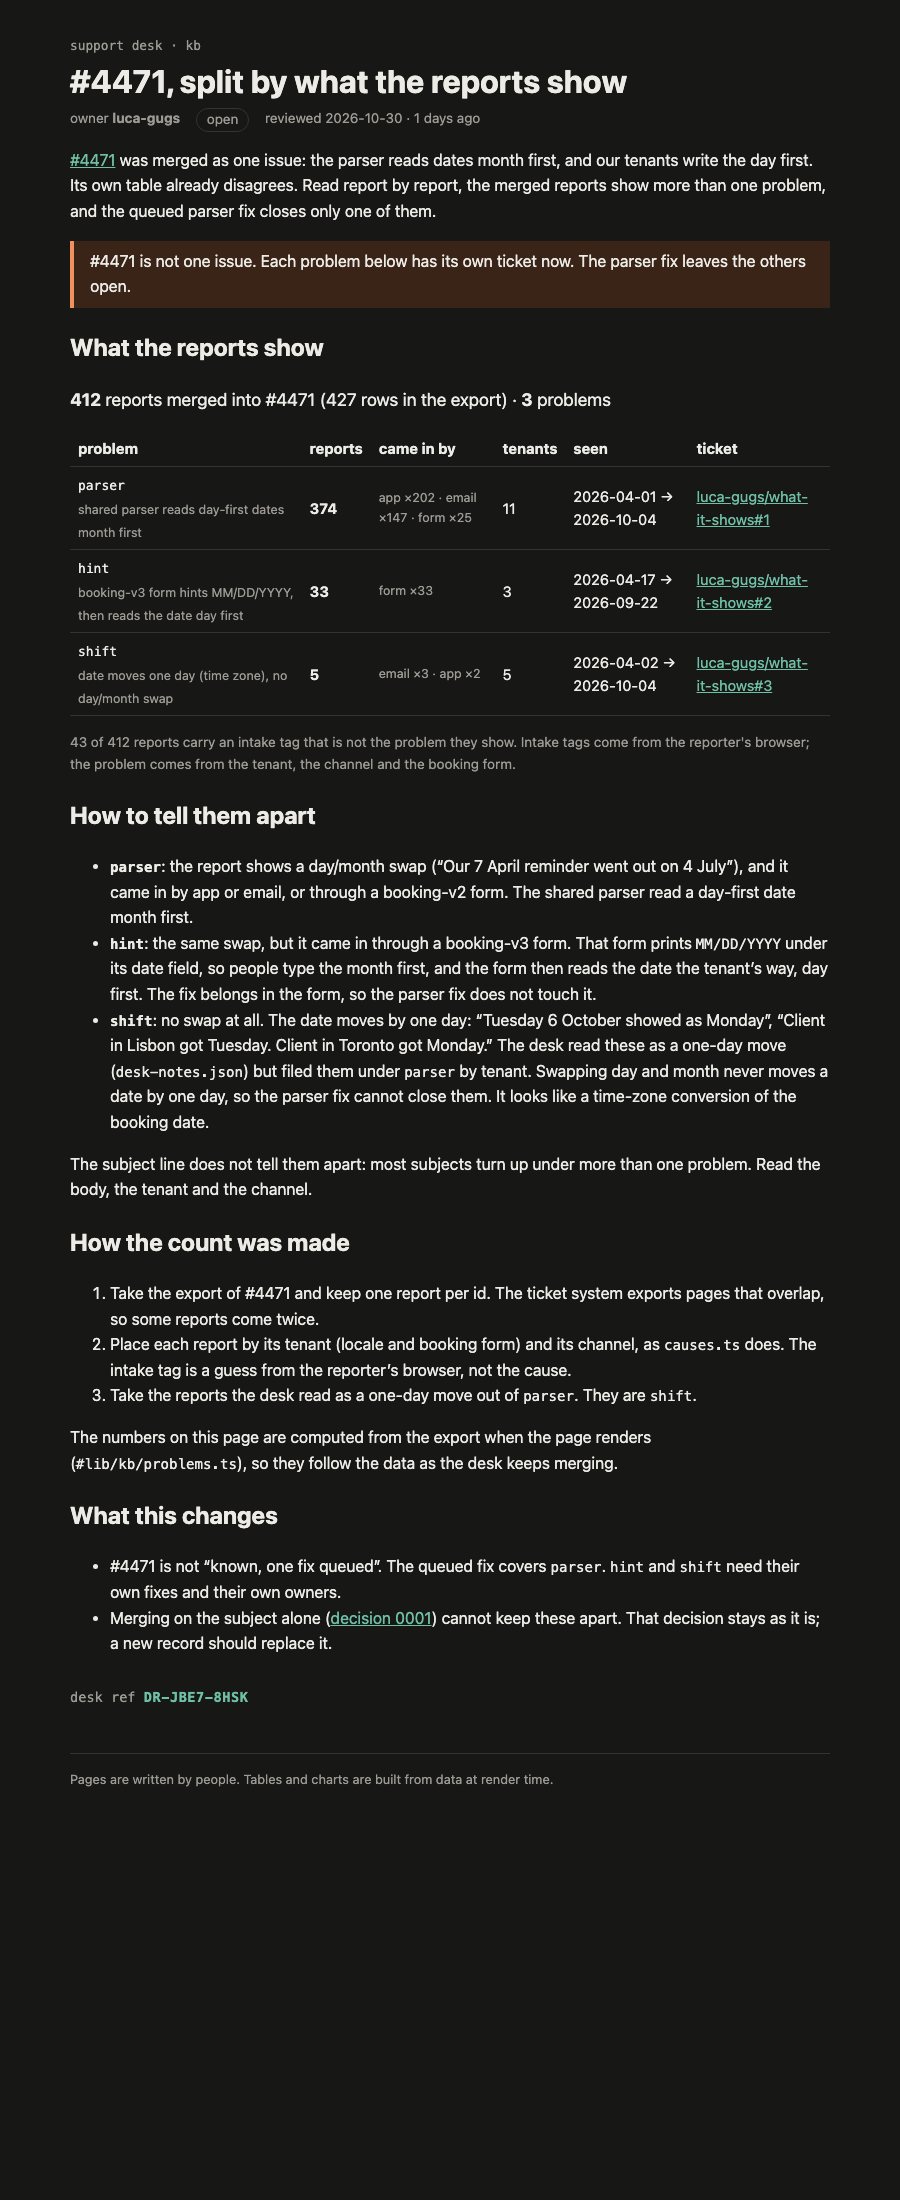
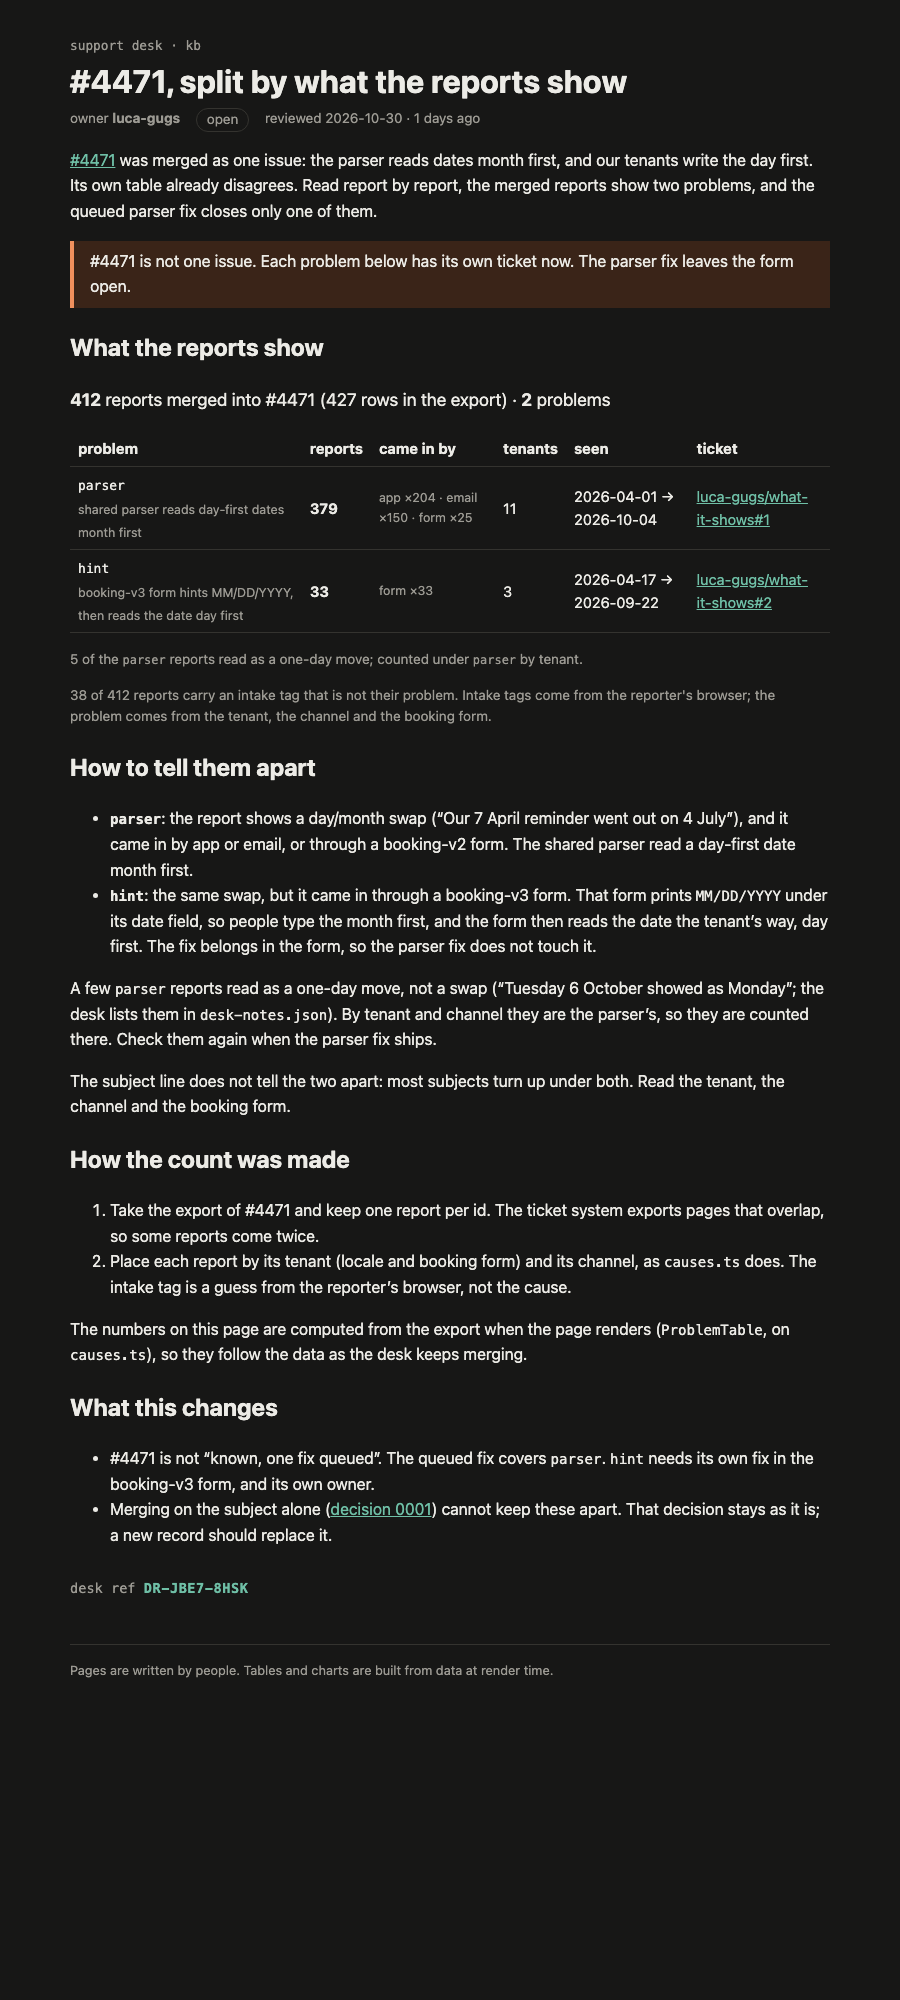
Count #4471 as two problems: parser and the booking-v3 hint
The one-day moves the desk noted belong to the parser problem by tenant,
so they are counted there and footnoted, not filed apart.

Changed region(s): [[0.0622, 0.0, 0.9333, 0.775], [0.0933, 0.806, 0.6222, 0.837], [0.7778, 0.186, 0.9022, 0.341]]

diff --git a/rendered/kb--incidents--4471-split.html b/rendered/kb--incidents--4471-split.html
@@ -3,14 +3,14 @@
   <head>
     <meta charset="utf-8" />
     <meta name="viewport" content="width=device-width, initial-scale=1" />
-    <link href="../../_app/immutable/entry/start.Ku1_9zTn.js" rel="modulepreload">
-		<link href="../../_app/immutable/chunks/UCQeh1lW.js" rel="modulepreload">
+    <link href="../../_app/immutable/entry/start.CMKn0K4u.js" rel="modulepreload">
+		<link href="../../_app/immutable/chunks/DS27942z.js" rel="modulepreload">
 		<link href="../../_app/immutable/chunks/W8JXJZ79.js" rel="modulepreload">
-		<link href="../../_app/immutable/entry/app.DZBaKgCd.js" rel="modulepreload">
+		<link href="../../_app/immutable/entry/app.DS69caIh.js" rel="modulepreload">
 		<link href="../../_app/immutable/chunks/xihTtKlq.js" rel="modulepreload">
 		<link href="../../_app/immutable/nodes/0.C46UDYLG.js" rel="modulepreload">
-		<link href="../../_app/immutable/nodes/5.Din2IdPg.js" rel="modulepreload">
-		<link href="../../_app/immutable/chunks/BRaOGXPD.js" rel="modulepreload">
+		<link href="../../_app/immutable/nodes/5.B6b6-bzB.js" rel="modulepreload">
+		<link href="../../_app/immutable/chunks/CFPk5S7-.js" rel="modulepreload">
 		<link href="../../_app/immutable/chunks/DooIRhXB.js" rel="modulepreload">
 		<link href="../../_app/immutable/chunks/CVBzP17p.js" rel="modulepreload">
 		<link href="../../_app/immutable/chunks/CrgYNgkp.js" rel="modulepreload">
@@ -26,20 +26,17 @@ aside.svelte-17bri61{border-left:4px solid var(--accent);background:var(--note-b
   <body data-sveltekit-preload-data="hover">
     <div style="display: contents"><!--[--><!--[0--><!--[--><!--[--><div class="kb svelte-e2jw2j"><header><a class="crumb svelte-e2jw2j" href="/kb">support desk · kb</a> <h1 class="svelte-e2jw2j">#4471, split by what the reports show</h1> <p class="meta svelte-e2jw2j"><span>owner <b>luca-gugs</b></span> <span class="status open svelte-e2jw2j">open</span> <span class="svelte-e2jw2j">reviewed 2026-10-30 · 1 days ago</span></p></header> <!--[-1--><!--]--> <main><p><a href="/kb/incidents/4471">#4471</a> was merged as one issue: the parser reads dates month first, and our
 tenants write the day first. Its own table already disagrees. Read report by report, the merged
-reports show more than one problem, and the queued parser fix closes only one of them.</p> <aside class="warn svelte-17bri61"><!---->#4471 is not one issue. Each problem below has its own ticket now. The parser fix leaves the others open.<!----></aside><!----> <h2>What the reports show</h2> <p class="sum svelte-1op6c6"><strong>412</strong> reports merged into #4471 (427 rows in the export) · <strong>3</strong> problems</p> <table><thead><tr><th>problem</th><th>reports</th><th>came in by</th><th>tenants</th><th>seen</th><th>ticket</th></tr></thead><tbody><!--[--><tr class="svelte-1op6c6"><td class="svelte-1op6c6"><code>parser</code><br/><span class="what svelte-1op6c6">shared parser reads day-first dates month first</span></td><td class="svelte-1op6c6"><strong>374</strong></td><td class="tags svelte-1op6c6">app ×202 · email ×147 · form ×25</td><td title="alder.physio, copper.studio, harbour.dental, kettle.books, lantern.row, long.table, morrow.tax, nine.lanterns, pale.harbour, ridge.clinic, stone.and.sons" class="svelte-1op6c6">11</td><td class="svelte-1op6c6">2026-04-01 → 2026-10-04</td><td class="svelte-1op6c6"><!--[0--><a href="https://github.com/luca-gugs/what-it-shows/issues/1">luca-gugs/what-it-shows#1</a><!--]--></td></tr><tr class="svelte-1op6c6"><td class="svelte-1op6c6"><code>hint</code><br/><span class="what svelte-1op6c6">booking-v3 form hints MM/DD/YYYY, then reads the date day first</span></td><td class="svelte-1op6c6"><strong>33</strong></td><td class="tags svelte-1op6c6">form ×33</td><td title="alder.physio, copper.studio, pale.harbour" class="svelte-1op6c6">3</td><td class="svelte-1op6c6">2026-04-17 → 2026-09-22</td><td class="svelte-1op6c6"><!--[0--><a href="https://github.com/luca-gugs/what-it-shows/issues/2">luca-gugs/what-it-shows#2</a><!--]--></td></tr><tr class="svelte-1op6c6"><td class="svelte-1op6c6"><code>shift</code><br/><span class="what svelte-1op6c6">date moves one day (time zone), no day/month swap</span></td><td class="svelte-1op6c6"><strong>5</strong></td><td class="tags svelte-1op6c6">email ×3 · app ×2</td><td title="alder.physio, kettle.books, lantern.row, nine.lanterns, pale.harbour" class="svelte-1op6c6">5</td><td class="svelte-1op6c6">2026-04-02 → 2026-10-04</td><td class="svelte-1op6c6"><!--[0--><a href="https://github.com/luca-gugs/what-it-shows/issues/3">luca-gugs/what-it-shows#3</a><!--]--></td></tr><!--]--></tbody></table> <p class="note svelte-1op6c6">43 of 412 reports carry an intake tag that is not the problem they show. Intake tags
-  come from the reporter's browser; the problem comes from the tenant, the channel and the booking form.</p><!----> <h2>How to tell them apart</h2> <ul><li><strong><code>parser</code></strong>: the report shows a day/month swap (“Our 7 April reminder went out on 4 July”), and
+reports show two problems, and the queued parser fix closes only one of them.</p> <aside class="warn svelte-17bri61"><!---->#4471 is not one issue. Each problem below has its own ticket now. The parser fix leaves the form open.<!----></aside><!----> <h2>What the reports show</h2> <p class="sum svelte-1op6c6"><strong>412</strong> reports merged into #4471 (427 rows in the export) · <strong>2</strong> problems</p> <table><thead><tr><th>problem</th><th>reports</th><th>came in by</th><th>tenants</th><th>seen</th><th>ticket</th></tr></thead><tbody><!--[--><tr class="svelte-1op6c6"><td class="svelte-1op6c6"><code>parser</code><br/><span class="what svelte-1op6c6">shared parser reads day-first dates month first</span></td><td class="svelte-1op6c6"><strong>379</strong></td><td class="tags svelte-1op6c6">app ×204 · email ×150 · form ×25</td><td class="svelte-1op6c6">11</td><td class="svelte-1op6c6">2026-04-01 → 2026-10-04</td><td class="svelte-1op6c6"><!--[0--><a href="https://github.com/luca-gugs/what-it-shows/issues/1">luca-gugs/what-it-shows#1</a><!--]--></td></tr><tr class="svelte-1op6c6"><td class="svelte-1op6c6"><code>hint</code><br/><span class="what svelte-1op6c6">booking-v3 form hints MM/DD/YYYY, then reads the date day first</span></td><td class="svelte-1op6c6"><strong>33</strong></td><td class="tags svelte-1op6c6">form ×33</td><td class="svelte-1op6c6">3</td><td class="svelte-1op6c6">2026-04-17 → 2026-09-22</td><td class="svelte-1op6c6"><!--[0--><a href="https://github.com/luca-gugs/what-it-shows/issues/2">luca-gugs/what-it-shows#2</a><!--]--></td></tr><!--]--></tbody></table> <!--[--><!--[0--><p class="note svelte-1op6c6">5 of the <code>parser</code> reports read as a one-day move; counted under <code>parser</code> by tenant.</p><!--]--><!--[-1--><!--]--><!--]--> <p class="note svelte-1op6c6">38 of 412 reports carry an intake tag that is not their problem. Intake tags come
+  from the reporter's browser; the problem comes from the tenant, the channel and the booking form.</p><!----> <h2>How to tell them apart</h2> <ul><li><strong><code>parser</code></strong>: the report shows a day/month swap (“Our 7 April reminder went out on 4 July”), and
 it came in by app or email, or through a booking-v2 form. The shared parser read a day-first date
 month first.</li> <li><strong><code>hint</code></strong>: the same swap, but it came in through a booking-v3 form. That form prints <code>MM/DD/YYYY</code> under its date field, so people type the month first, and the form then reads the
-date the tenant’s way, day first. The fix belongs in the form, so the parser fix does not touch it.</li> <li><strong><code>shift</code></strong>: no swap at all. The date moves by one day: “Tuesday 6 October showed as Monday”,
-“Client in Lisbon got Tuesday. Client in Toronto got Monday.” The desk read these as a one-day move
-(<code>desk-notes.json</code>) but filed them under <code>parser</code> by tenant. Swapping day and month never moves a
-date by one day, so the parser fix cannot close them. It looks like a time-zone conversion of the
-booking date.</li></ul> <p>The subject line does not tell them apart: most subjects turn up under more than one problem. Read
-the body, the tenant and the channel.</p> <h2>How the count was made</h2> <ol><li>Take the export of #4471 and keep one report per id. The ticket system exports pages that
+date the tenant’s way, day first. The fix belongs in the form, so the parser fix does not touch it.</li></ul> <p>A few <code>parser</code> reports read as a one-day move, not a swap (“Tuesday 6 October showed as Monday”;
+the desk lists them in <code>desk-notes.json</code>). By tenant and channel they are the parser’s, so they are
+counted there. Check them again when the parser fix ships.</p> <p>The subject line does not tell the two apart: most subjects turn up under both. Read the tenant, the
+channel and the booking form.</p> <h2>How the count was made</h2> <ol><li>Take the export of #4471 and keep one report per id. The ticket system exports pages that
 overlap, so some reports come twice.</li> <li>Place each report by its tenant (locale and booking form) and its channel, as <code>causes.ts</code> does.
-The intake tag is a guess from the reporter’s browser, not the cause.</li> <li>Take the reports the desk read as a one-day move out of <code>parser</code>. They are <code>shift</code>.</li></ol> <p>The numbers on this page are computed from the export when the page renders
-(<code>#lib/kb/problems.ts</code>), so they follow the data as the desk keeps merging.</p> <h2>What this changes</h2> <ul><li>#4471 is not “known, one fix queued”. The queued fix covers <code>parser</code>. <code>hint</code> and <code>shift</code> need
-their own fixes and their own owners.</li> <li>Merging on the subject alone (<a href="/kb/decisions/0001-dedupe-by-subject">decision 0001</a>) cannot keep
+The intake tag is a guess from the reporter’s browser, not the cause.</li></ol> <p>The numbers on this page are computed from the export when the page renders (<code>ProblemTable</code>, on <code>causes.ts</code>), so they follow the data as the desk keeps merging.</p> <h2>What this changes</h2> <ul><li>#4471 is not “known, one fix queued”. The queued fix covers <code>parser</code>. <code>hint</code> needs its own fix in
+the booking-v3 form, and its own owner.</li> <li>Merging on the subject alone (<a href="/kb/decisions/0001-dedupe-by-subject">decision 0001</a>) cannot keep
 these apart. That decision stays as it is; a new record should replace it.</li></ul> <!--[0--><p class="stamp svelte-1280m42">desk ref <b class="svelte-1280m42">DR-JBE7-8HSK</b></p><!--]--><!----><!----></main> <footer class="svelte-e2jw2j">Pages are written by people. Tables and charts are built from data at render time.</footer></div><!--]--><!----><!--]--><!--]--> <!--[-1--><!--]--><!--]-->
 		</div>
   </body>

diff --git a/src/lib/kb/ProblemTable.svelte b/src/lib/kb/ProblemTable.svelte
@@ -1,22 +1,23 @@
 <script lang="ts">
   import reports from '#lib/data/reports-4471.json';
   import notes from '#lib/data/desk-notes.json';
-  import { uniqueById, type Report } from '#lib/kb/causes';
+  import { groupByCause, readAs, uniqueById, type Cause, type Report } from '#lib/kb/causes';
   import { tenantOf } from '#lib/kb/locales';
-  import { groupByProblem, mistagged, PROBLEM_LABEL, type Problem } from '#lib/kb/problems';
+  import { mistagged, PROBLEM_LABEL } from '#lib/kb/problems';
 
   // `tickets`: where each problem is filed now, problem → ticket URL.
-  let { ticket, tickets = {} }: { ticket: number; tickets?: Partial<Record<Problem, string>> } = $props();
+  let { ticket, tickets = {} }: { ticket: number; tickets?: Partial<Record<Cause, string>> } = $props();
 
   const rows = $derived((reports as Report[]).filter((r) => r.mergedInto === ticket));
   const merged = $derived(uniqueById(rows));
-  const groups = $derived(groupByProblem(merged, tenantOf, notes.oneDayMove));
+  const groups = $derived(groupByCause(merged, tenantOf));
   const wrongTag = $derived(mistagged(groups));
   const count = (n: Record<string, number>) =>
     Object.entries(n)
       .sort((a, b) => b[1] - a[1])
       .map(([k, v]) => `${k} ×${v}`)
       .join(' · ');
+  const channels = (rs: Report[]) => count(rs.reduce<Record<string, number>>((n, r) => ({ ...n, [r.channel]: (n[r.channel] ?? 0) + 1 }), {}));
   const ticketOf = (p: string) => (tickets as Record<string, string | undefined>)[p];
   const label = (url: string) => url.replace(/^https:\/\/github\.com\/([^/]+\/[^/]+)\/issues\/(\d+)$/, '$1#$2');
 </script>
@@ -32,13 +33,13 @@
     <tr><th>problem</th><th>reports</th><th>came in by</th><th>tenants</th><th>seen</th><th>ticket</th></tr>
   </thead>
   <tbody>
-    {#each groups as g (g.problem)}
-      {@const url = ticketOf(g.problem)}
+    {#each groups as g (g.cause)}
+      {@const url = ticketOf(g.cause)}
       <tr class:open={!url}>
-        <td><code>{g.problem}</code><br /><span class="what">{PROBLEM_LABEL[g.problem]}</span></td>
+        <td><code>{g.cause}</code><br /><span class="what">{PROBLEM_LABEL[g.cause]}</span></td>
         <td><strong>{g.reports.length}</strong></td>
-        <td class="tags">{count(g.channels)}</td>
-        <td title={g.tenants.join(', ')}>{g.tenants.length}</td>
+        <td class="tags">{channels(g.reports)}</td>
+        <td>{g.tenants}</td>
         <td>{g.firstSeen} → {g.lastSeen}</td>
         <td>{#if url}<a href={url}>{label(url)}</a>{:else}no ticket yet{/if}</td>
       </tr>
@@ -46,9 +47,16 @@
   </tbody>
 </table>
 
+{#each groups as g (g.cause)}
+  {@const moved = readAs(g, notes.oneDayMove)}
+  {#if moved}
+    <p class="note">{moved} of the <code>{g.cause}</code> reports read as a one-day move; counted under <code>{g.cause}</code> by tenant.</p>
+  {/if}
+{/each}
+
 <p class="note">
-  {wrongTag} of {merged.length} reports carry an intake tag that is not the problem they show. Intake tags
-  come from the reporter's browser; the problem comes from the tenant, the channel and the booking form.
+  {wrongTag} of {merged.length} reports carry an intake tag that is not their problem. Intake tags come
+  from the reporter's browser; the problem comes from the tenant, the channel and the booking form.
 </p>
 
 <style>

diff --git a/src/lib/kb/problems.ts b/src/lib/kb/problems.ts
@@ -1,65 +1,15 @@
-// What a report shows, not only where its tenant files it. causes.ts places a report by tenant and
-// channel; that is right for every report that shows a day/month swap. A report the desk read as a
-// one-day move (desk-notes.json) shows no swap at all: neither the parser fix nor the hint fix closes
-// it. It is its own problem, `shift`.
-import { causeOf, type Cause, type Report, type Tenant } from '#lib/kb/causes';
+// The problems in a merged ticket, each with the ticket it is filed under now. causes.ts decides
+// which problem a report belongs to (tenant, channel, booking form); this file only names them and
+// counts what intake got wrong.
+import type { Cause, CauseGroup } from '#lib/kb/causes';
 
-export type Problem = Cause | 'shift';
-export const PROBLEMS: readonly Problem[] = ['parser', 'hint', 'shift'];
-
-export const PROBLEM_LABEL: Record<Problem | 'unplaced', string> = {
+export const PROBLEM_LABEL: Record<Cause | 'unplaced', string> = {
   parser: 'shared parser reads day-first dates month first',
   hint: 'booking-v3 form hints MM/DD/YYYY, then reads the date day first',
-  shift: 'date moves one day (time zone), no day/month swap',
   unplaced: 'no day-first tenant on file',
 };
 
-export function problemOf(r: Report, t: Tenant | undefined, oneDayMove: readonly string[]): Problem | 'unplaced' {
-  if (oneDayMove.includes(r.id)) return 'shift';
-  return causeOf(r, t) ?? 'unplaced';
-}
-
-export type ProblemGroup = {
-  problem: Problem | 'unplaced';
-  reports: Report[];
-  tenants: string[];
-  // How the reports came in: channel → count.
-  channels: Record<string, number>;
-  // What intake tagged these reports as: tag → count.
-  taggedAs: Record<string, number>;
-  firstSeen: string;
-  lastSeen: string;
-};
-
-const tally = (keys: string[]) => keys.reduce<Record<string, number>>((n, k) => ({ ...n, [k]: (n[k] ?? 0) + 1 }), {});
-
-export function groupByProblem(
-  reports: Report[],
-  tenantOf: (r: Report) => Tenant | undefined,
-  oneDayMove: readonly string[],
-): ProblemGroup[] {
-  const byProblem = new Map<ProblemGroup['problem'], Report[]>();
-  for (const r of reports) {
-    const p = problemOf(r, tenantOf(r), oneDayMove);
-    byProblem.set(p, [...(byProblem.get(p) ?? []), r]);
-  }
-  return [...byProblem.entries()]
-    .map(([problem, rs]) => {
-      const days = rs.map((r) => r.receivedAt.slice(0, 10)).sort();
-      return {
-        problem,
-        reports: rs,
-        tenants: [...new Set(rs.map((r) => r.tenant))].sort(),
-        channels: tally(rs.map((r) => r.channel)),
-        taggedAs: tally(rs.map((r) => r.meta.intakeTag)),
-        firstSeen: days[0],
-        lastSeen: days[days.length - 1],
-      };
-    })
-    .sort((a, b) => b.reports.length - a.reports.length);
-}
-
-// Reports whose intake tag names a different problem than the one they show.
-export function mistagged(groups: ProblemGroup[]): number {
-  return groups.reduce((n, g) => n + g.reports.filter((r) => r.meta.intakeTag !== g.problem).length, 0);
+// Reports whose intake tag names a different problem than the one they belong to.
+export function mistagged(groups: CauseGroup[]): number {
+  return groups.reduce((n, g) => n + g.reports.filter((r) => r.meta.intakeTag !== g.cause).length, 0);
 }

diff --git a/README.md b/README.md
@@ -37,7 +37,7 @@ Exported 2026-10-04 from the `support` repo, `apps/kb/` → `src/`.
 
 ## #4471, split (added 2026-10-30)
 
-Ticket #4471 merged 412 reports as one issue. The reports show three problems, each now its own
+Ticket #4471 merged 412 reports as one issue. The reports show two problems, each now its own
 issue in this repo. The page is `src/routes/kb/incidents/4471-split/+page.svx`; its numbers come from
 `src/lib/kb/problems.ts` and `src/lib/kb/ProblemTable.svelte`. Nothing else under `src/` changed.
 
